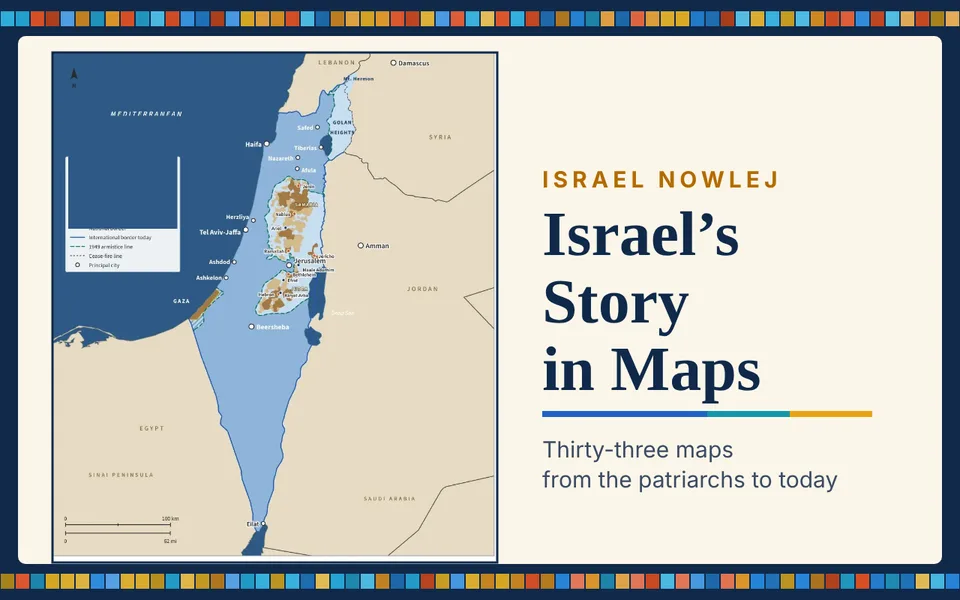
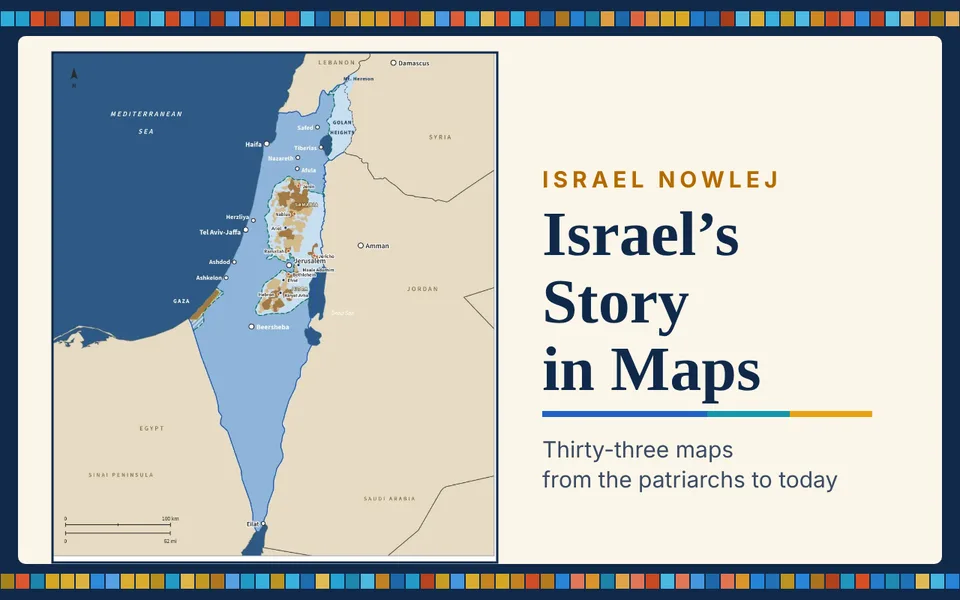
Maps cover: remove the whole legend box cleanly
Claude-Session: https://claude.ai/code/session_01VjUiP5gSpY9nCvsG9wTWbE

Changed region(s): [[0.0625, 0.27, 0.1875, 0.48]]

diff --git a/tools/make_maps_cover.py b/tools/make_maps_cover.py
@@ -6,8 +6,8 @@ root = sys.argv[1]
 im = Image.open(f'{root}/img/p004.webp').convert('RGB')
 W, H = im.size
 from PIL import ImageDraw
-sea = im.getpixel((int(W * .10), int(H * .50)))
-ImageDraw.Draw(im).rectangle((int(W * .105), int(H * .20), int(W * .31), int(H * .37)), fill=sea)  # hide the legend: the cover is illustrative
+sea = im.getpixel((int(W * .085), int(H * .30)))
+ImageDraw.Draw(im).rectangle((int(W * .093), int(H * .24), int(W * .327), int(H * .465)), fill=sea)  # hide the legend: the cover is illustrative
 crop = im.crop((int(W * .075), int(H * .105), int(W * .915), int(H * .875)))
 buf = io.BytesIO(); crop.save(buf, 'JPEG', quality=88); b64 = base64.b64encode(buf.getvalue()).decode()
 def hexc(h, s, l):
